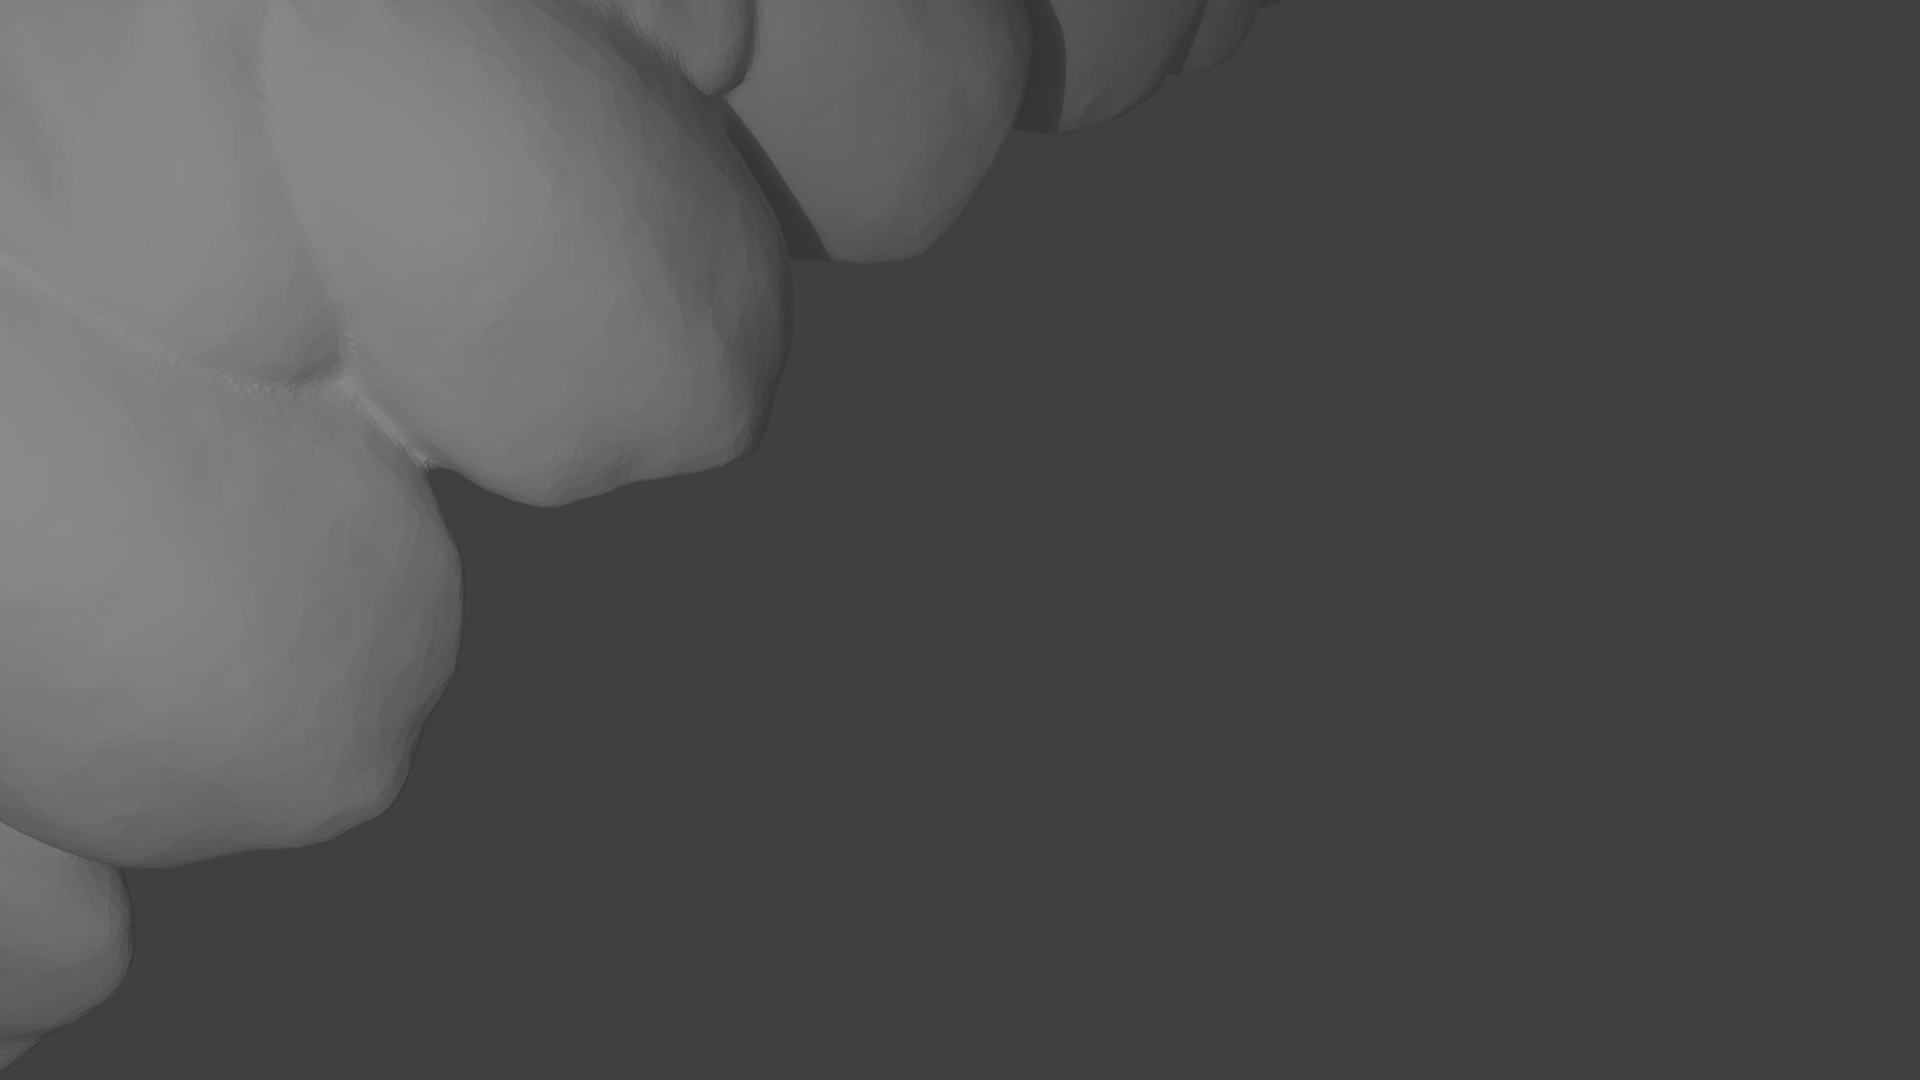
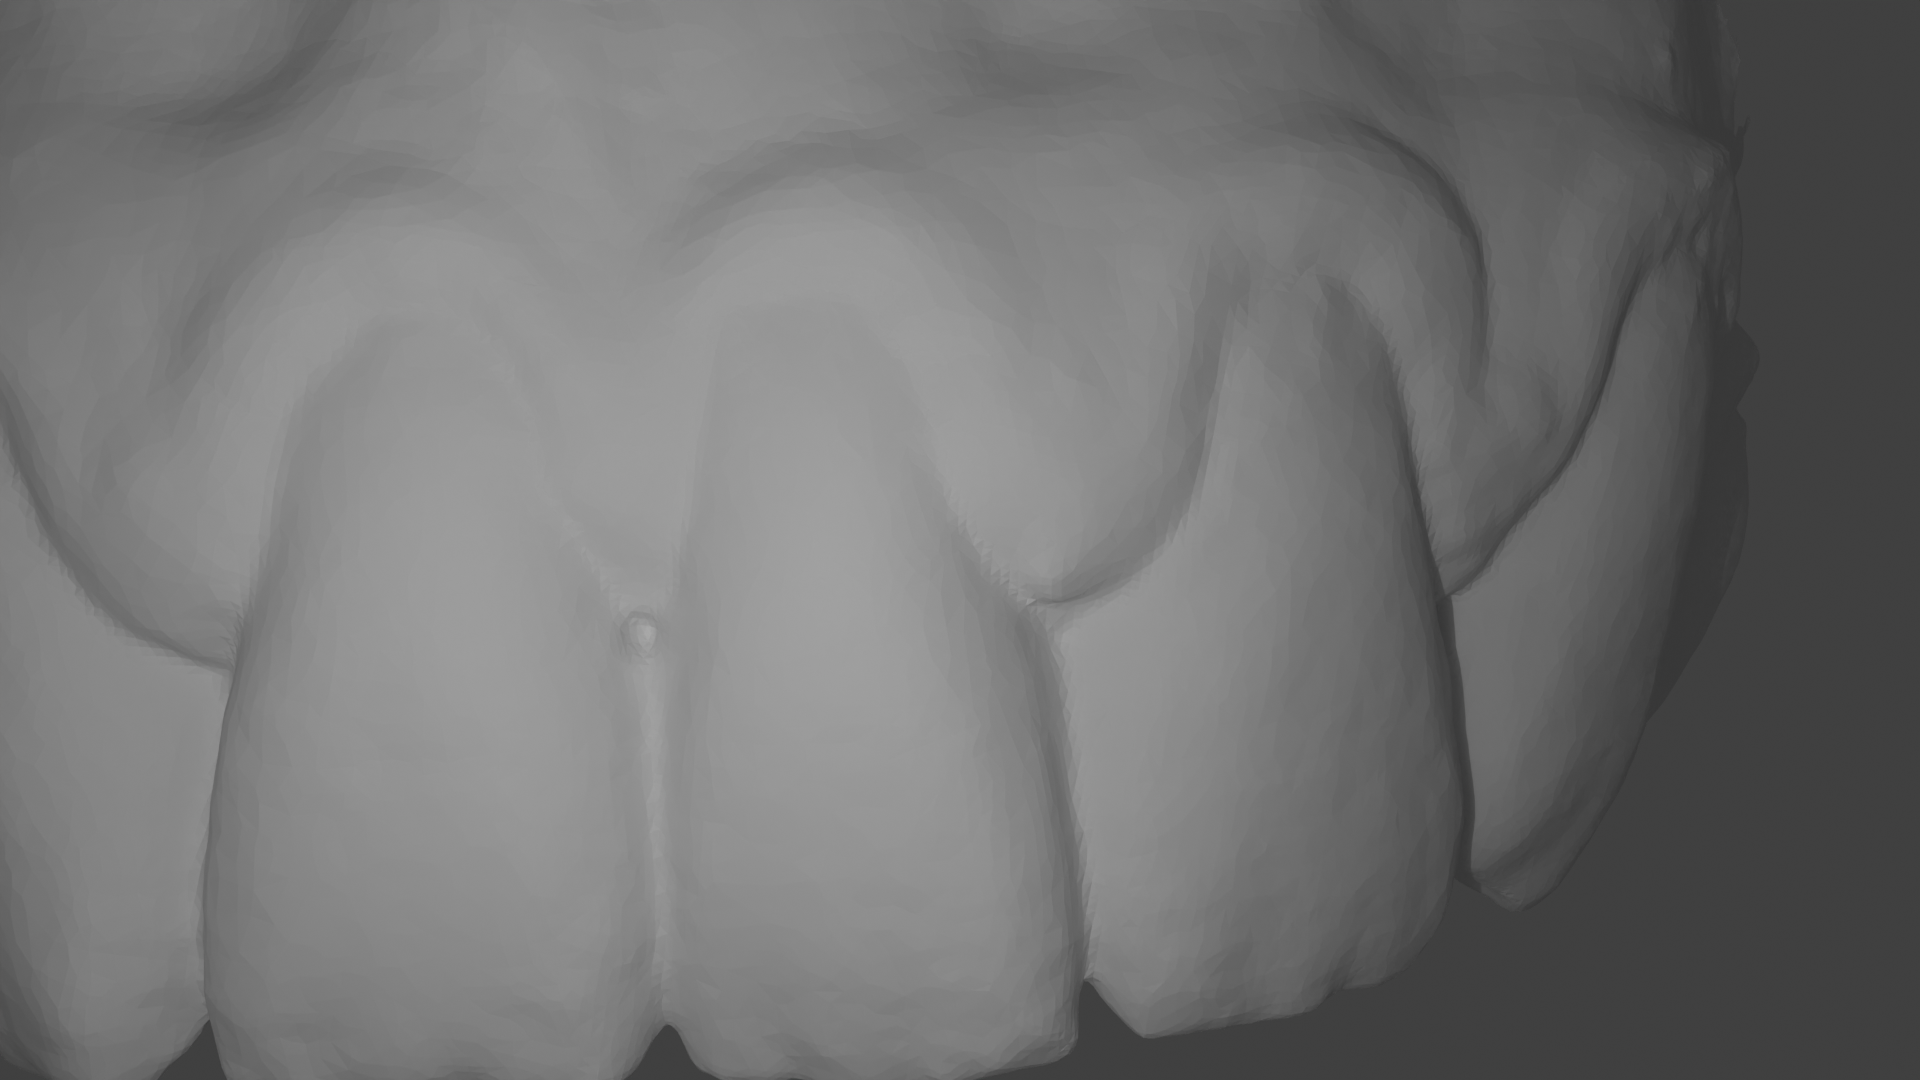
referenzpunkt für horizontale sicht

diff --git a/src/ur5e_bullet/__init__.py b/src/ur5e_bullet/__init__.py
@@ -25,6 +25,8 @@ DRAW_VIEW_STICK = _cfg_mod.DRAW_VIEW_STICK
 VIEW_STICK_LENGTH = _cfg_mod.VIEW_STICK_LENGTH
 VIEW_STICK_RADIUS = _cfg_mod.VIEW_STICK_RADIUS
 VIEW_STICK_COLOR = _cfg_mod.VIEW_STICK_COLOR
+LOOK_TARGET_RADIUS = _cfg_mod.LOOK_TARGET_RADIUS
+LOOK_TARGET_COLOR = _cfg_mod.LOOK_TARGET_COLOR
 
 
 def _draw_crosshair(pos, color, items, label=None):
@@ -155,6 +157,15 @@ def _draw_waypoint_bodies(wps):
     return bodies
 
 
+def _draw_look_target_body(pos):
+    """Persistenter, kollisionsfreier Marker fuer das Blickachse-Ziel (Look-Target).
+    Wie die Waypoints: nur visuelle Geometrie, kollidiert nie mit dem Roboter."""
+    vis = pybullet.createVisualShape(
+        pybullet.GEOM_SPHERE, radius=LOOK_TARGET_RADIUS, rgbaColor=LOOK_TARGET_COLOR,
+    )
+    return pybullet.createMultiBody(baseVisualShapeIndex=vis, basePosition=pos)
+
+
 def _resolve_waypoints(cfg):
     """Erzeugt die Liste der Waypoint-Dicts einer Startposition.
 
@@ -227,18 +238,37 @@ def demo_simulation():
             pybullet.resetBasePositionAndOrientation(view_stick_id, center, oq)
 
     def draw_waypoints():
+        nonlocal look_target_body_id
         for b in waypoint_bodies:
             try:
                 pybullet.removeBody(b)
             except Exception:
                 pass
         waypoint_bodies.clear()
+        if look_target_body_id is not None:
+            try:
+                pybullet.removeBody(look_target_body_id)
+            except Exception:
+                pass
+            look_target_body_id = None
         if current_start is None:
             return
-        wps = _resolve_waypoints(START_POSITIONS[current_start])
+        cfg = START_POSITIONS[current_start]
+        wps = _resolve_waypoints(cfg)
         if not wps:
             return
         waypoint_bodies.extend(_draw_waypoint_bodies(wps))
+        plane_z = wps[0]["tcp_pos"][2]
+        lt = cfg.get("look_target")
+        jaw = cfg.get("jaw_pos")
+        if lt is not None:
+            target = [lt[0], lt[1], plane_z]
+        elif jaw is not None:
+            target = [jaw[0], jaw[1], plane_z]
+        else:
+            target = None
+        if target is not None:
+            look_target_body_id = _draw_look_target_body(target)
 
     def reset_overlay():
         """Entfernt ALLE Debug-Items (auch verwaiste "Geister") via
@@ -300,6 +330,7 @@ def demo_simulation():
 
     items = []
     waypoint_bodies = []
+    look_target_body_id = None
     tcp_items = []
     view_stick_id = None
     current_start = None

diff --git a/config.py b/config.py
@@ -44,7 +44,7 @@ CAMERA_DISPLAY_M = 0.2
 # Seitlicher Versatz der beiden Kameras (Stereo-Baseline) relativ zum TCP,
 # in Scanner-lokalen Koordinaten (Y-Achse), in Meter (S=1 -> 1 BU).
 # Jede Kamera wird um +/- CAMERA_LATERAL_OFFSET quer zur Blickrichtung versetzt.
-CAMERA_LATERAL_OFFSET = 0.005
+CAMERA_LATERAL_OFFSET = 0.0025
 
 # ── Licht ──
 LIGHT_POWER = 0.001
@@ -96,6 +96,12 @@ VIEW_STICK_LENGTH = 0.05
 VIEW_STICK_RADIUS = 0.0015
 VIEW_STICK_COLOR = [1.0, 0.3, 0.0, 1.0]
 
+# ── Look-Target (Blickachse-Ziel) ──
+# Optional zusaetzlicher Zielpunkt fuer die Blickachse (Default: Gebiss-Mittelpunkt).
+# Wird als grusnes, kollisionsfreies Kuegelchen an der Waypoint-Ebenen-Hoehe dargestellt.
+LOOK_TARGET_RADIUS = 0.008
+LOOK_TARGET_COLOR = [0.1, 1.0, 0.3, 0.95]
+
 # ── Joint Limits (Winkel in Grad) ──
 # Ein Eintrag pro steuerbarem Gelenk, Reihenfolge = Joint-Reihenfolge
 # (shoulder_pan, shoulder_lift, elbow, wrist_1, wrist_2, wrist_3).
@@ -135,6 +141,7 @@ START_POSITIONS = {
         "parabola":  {"x0": 0.615, "a": 0.046, "z": 0.295, "n": 21, "y_max": 0.037, "power": 4},
         "ori_anchors": {"start": [90, 0, 0], "mid": [180, 90, 0], "end": [-90, 0, 0]},
         "look_at_jaw": True,
+        "look_target": [0.661, 0.0],
     },
     "aussen2": {
         "tcp_pos":  [0.615, 0, 0.295],
@@ -150,6 +157,7 @@ START_POSITIONS = {
         "parabola":  {"x0": 0.615, "a": 0.0463, "z": 0.295, "n": 20, "y_max": 0.05, "power": 4},
         "ori_anchors": {"start": [90, 0, 0], "mid": [180, 90, 0], "end": [-90, 0, 0]},
         "look_at_jaw": True,
+        "look_target": [0.65, 0.0],
     },
     "oben": {
         "tcp_pos":  [0.85, 0.0, 0.38],

diff --git a/waypoints.py b/waypoints.py
@@ -47,10 +47,18 @@ def parabola_waypoints(cfg):
     power = float(p.get("power", 4.0))
 
     # Per-Startposition schaltbar: Kamera-Blickachse (TCP-lokales -Z) auf den
-    # Gebiss-Mittelpunkt in der Hoehe der Waypoint-Ebene richten (Blickachse
-    # horizontal in der Ebene). Default an, kann je Startposition gesetzt werden.
+    # Look-Target-Punkt in der Hoehe der Waypoint-Ebene richten (Blickachse
+    # horizontal in der Ebene). Ziel = look_target (x,y) oder Default Gebiss-Mitte.
+    # Default an, kann je Startposition gesetzt werden.
     look_at_jaw = cfg.get("look_at_jaw", True)
+    lt = cfg.get("look_target")
     jaw = cfg.get("jaw_pos")
+    if lt is not None:
+        target_xy = [lt[0], lt[1]]
+    elif jaw is not None:
+        target_xy = [jaw[0], jaw[1]]
+    else:
+        target_xy = None
 
     anchors = cfg.get("ori_anchors", {})
     a_start = anchors.get("start", [90, 0, 0])
@@ -117,9 +125,9 @@ def parabola_waypoints(cfg):
             t = (idx - mid) / (last - mid) if last > mid else 1.0
             q = _quat_slerp(q_mid, q_end, t)
 
-        if look_at_jaw and jaw is not None:
+        if look_at_jaw and target_xy is not None:
             wp_pos = [x, value, z]
-            d = [jaw[0] - wp_pos[0], jaw[1] - wp_pos[1], 0.0]
+            d = [target_xy[0] - wp_pos[0], target_xy[1] - wp_pos[1], 0.0]
             dn = math.sqrt(sum(c * c for c in d))
             if dn > 1e-9:
                 d = [c / dn for c in d]
